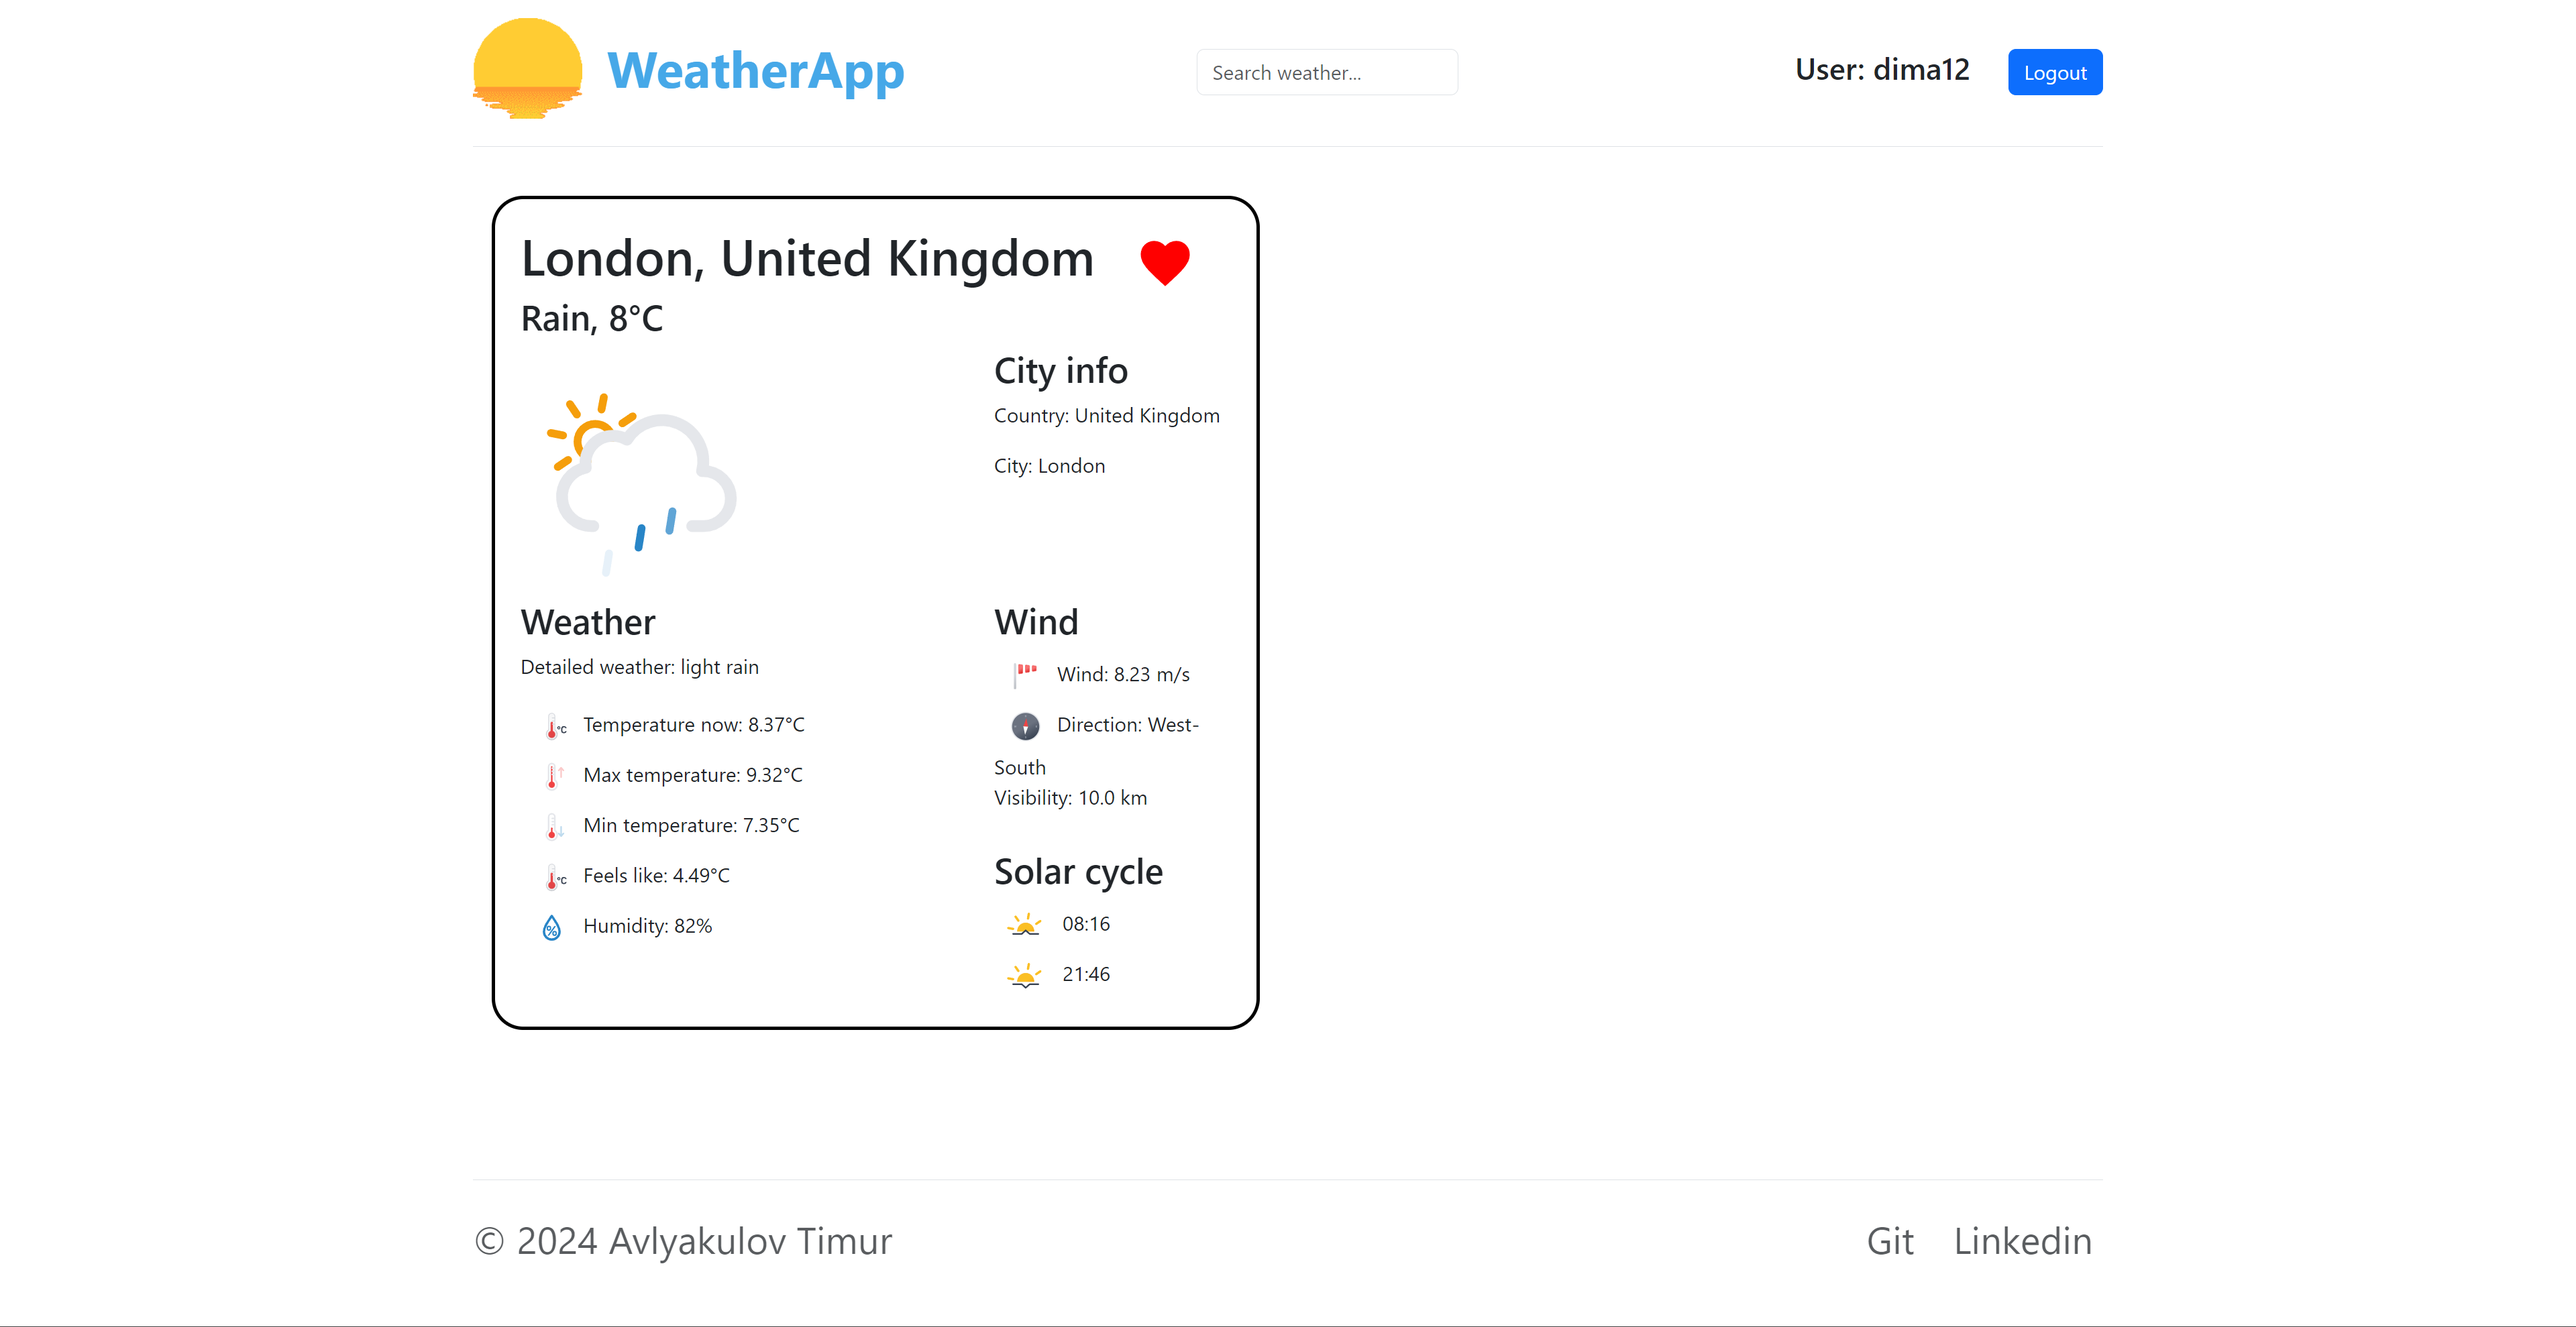
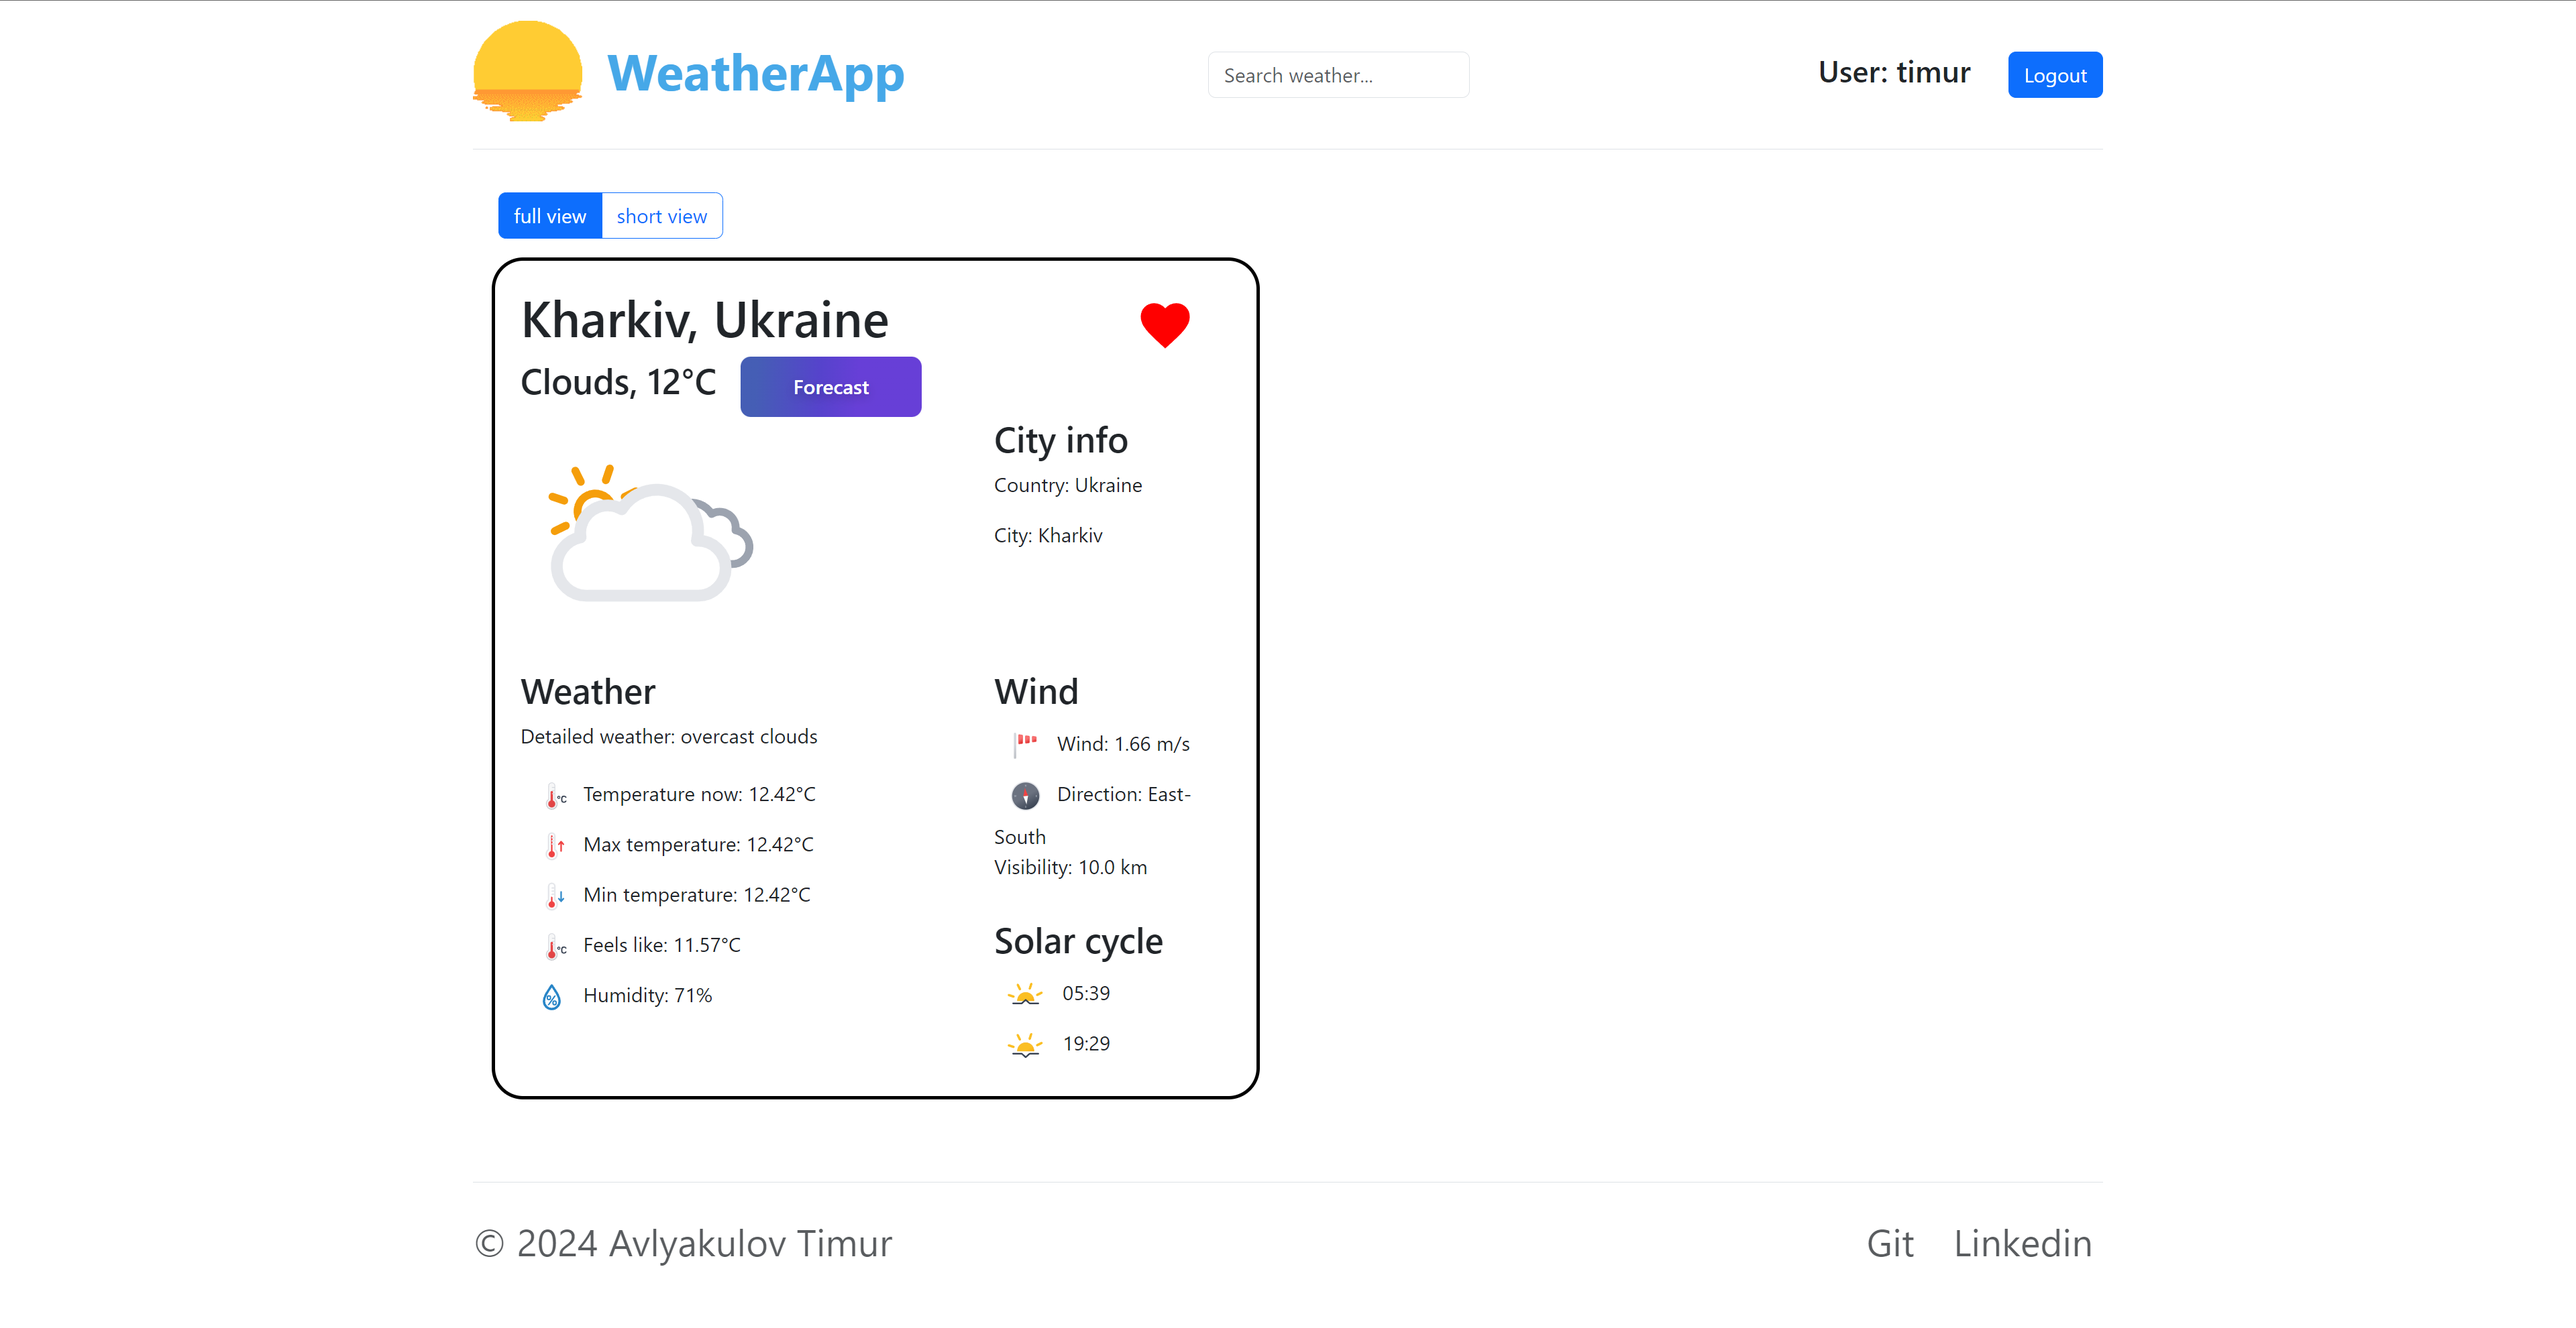
fix bug with registration user

diff --git a/src/test/java/avlyakulov/timur/service/UserServiceTest.java b/src/test/java/avlyakulov/timur/service/UserServiceTest.java
@@ -99,42 +99,42 @@ public class UserServiceTest {
 
         @Test
         void isUserLoginAndPasswordAreValid_returnTrue_userHasValidLoginAndPassword() {
-            boolean userLoginAndPasswordAreValid = userService.isUserLoginAndPasswordAreValid(context, userLoginValid);
+            boolean userLoginAndPasswordAreValid = userService.isUserLoginAndPasswordAreValid(userLoginValid, context);
 
             assertThat(userLoginAndPasswordAreValid).isTrue();
         }
 
         @Test
         void isUserLoginAndPasswordAreValid_returnFalse_userHasInvalidLogin() {
-            boolean userLoginAndPasswordAreValid = userService.isUserLoginAndPasswordAreValid(context, userLoginInvalid);
+            boolean userLoginAndPasswordAreValid = userService.isUserLoginAndPasswordAreValid( userLoginInvalid, context);
 
             assertThat(userLoginAndPasswordAreValid).isFalse();
         }
 
         @Test
         void isUserLoginAndPasswordAreValid_returnTrue_userHasValidEmailLogin() {
-            boolean userLoginAndPasswordAreValid = userService.isUserLoginAndPasswordAreValid(context, userEmailLoginValid);
+            boolean userLoginAndPasswordAreValid = userService.isUserLoginAndPasswordAreValid( userEmailLoginValid, context);
 
             assertThat(userLoginAndPasswordAreValid).isTrue();
         }
 
         @Test
         void isUserLoginAndPasswordAreValid_returnFalse_userHasInvalidEmailLogin() {
-            boolean userLoginAndPasswordAreValid = userService.isUserLoginAndPasswordAreValid(context, userEmailLoginInvalid);
+            boolean userLoginAndPasswordAreValid = userService.isUserLoginAndPasswordAreValid( userEmailLoginInvalid, context);
 
             assertThat(userLoginAndPasswordAreValid).isFalse();
         }
 
         @Test
         void isUserLoginAndPasswordAreValid_returnFalse_userHasWeakPassword() {
-            boolean userLoginAndPasswordAreValid = userService.isUserLoginAndPasswordAreValid(context, userPasswordInvalid);
+            boolean userLoginAndPasswordAreValid = userService.isUserLoginAndPasswordAreValid( userPasswordInvalid, context);
 
             assertThat(userLoginAndPasswordAreValid).isFalse();
         }
 
         @Test
         void isUserLoginAndPasswordAreValid_returnFalse_userHasInvalidConfirmPassword() {
-            boolean userLoginAndPasswordAreValid = userService.isUserLoginAndPasswordAreValid(context, userConfirmPasswordInvalid);
+            boolean userLoginAndPasswordAreValid = userService.isUserLoginAndPasswordAreValid( userConfirmPasswordInvalid, context);
 
             assertThat(userLoginAndPasswordAreValid).isFalse();
         }

diff --git a/src/main/java/avlyakulov/timur/servlet/auth/RegisterController.java b/src/main/java/avlyakulov/timur/servlet/auth/RegisterController.java
@@ -61,18 +61,21 @@ public class RegisterController extends HttpServlet {
             return;
         }
         UserRegistrationDto userRegistrationDto = new UserRegistrationDto(login, password, confirmPassword);
-        boolean isUserLoginAndPasswordAreValid = userService.isUserLoginAndPasswordAreValid(context, userRegistrationDto);
+        boolean isUserLoginAndPasswordAreValid = userService.isUserLoginAndPasswordAreValid(userRegistrationDto, context);
         if (isUserLoginAndPasswordAreValid) {
             User user = new User(userRegistrationDto.getLogin(), userRegistrationDto.getPassword());
             try {
                 userService.createUser(user);
+                context.setVariable("success_registration", true);
+                ThymeleafUtilRespondHtmlView.respondHtmlPage(htmlPageRegister, context, resp);
+                return;
             } catch (ModelAlreadyExistsException e) {
                 context.setVariable("error_field", e.getMessage());
                 ThymeleafUtilRespondHtmlView.respondHtmlPage(htmlPageRegister, context, resp);
                 return;
             }
         }
-        context.setVariable("success_registration", true);
+        context.setVariable("success_registration", false);
         ThymeleafUtilRespondHtmlView.respondHtmlPage(htmlPageRegister, context, resp);
     }
 }

diff --git a/src/main/java/avlyakulov/timur/service/UserService.java b/src/main/java/avlyakulov/timur/service/UserService.java
@@ -1,14 +1,11 @@
 package avlyakulov.timur.service;
 
-import avlyakulov.timur.custom_exception.ModelAlreadyExistsException;
 import avlyakulov.timur.custom_exception.UserCredentialsException;
 import avlyakulov.timur.dao.UserDao;
 import avlyakulov.timur.dto.UserRegistrationDto;
 import avlyakulov.timur.model.User;
 import avlyakulov.timur.util.BCryptPassword;
-import avlyakulov.timur.util.ContextUtil;
 import avlyakulov.timur.util.authentication.LoginRegistrationValidation;
-import avlyakulov.timur.util.thymeleaf.ThymeleafUtilRespondHtmlView;
 import lombok.extern.slf4j.Slf4j;
 import org.thymeleaf.context.Context;
 
@@ -39,9 +36,8 @@ public class UserService extends LoginRegistrationValidation implements BCryptPa
         return user;
     }
 
-    public boolean isUserLoginAndPasswordAreValid(Context context, UserRegistrationDto userDto) {
+    public boolean isUserLoginAndPasswordAreValid(UserRegistrationDto userDto, Context context) {
         if (isUserLoginValid(userDto.getLogin(), context) && isPasswordTheSameAndStrong(userDto.getPassword(), userDto.getConfirmPassword(), context)) {
-            context.setVariable("success_registration", true);
             return true;
         }
         return false;

diff --git a/src/main/java/avlyakulov/timur/listener/SessionSchedulerContextListener.java b/src/main/java/avlyakulov/timur/listener/SessionSchedulerContextListener.java
@@ -14,6 +14,10 @@ import java.util.concurrent.TimeUnit;
 public class SessionSchedulerContextListener implements ServletContextListener {
     private ScheduledExecutorService scheduler;
 
+    private final int intervalMinutes = 10;
+
+    private final int initialDelay = 2;
+
     @Override
     public void contextInitialized(ServletContextEvent sce) {
         try {
@@ -21,9 +25,7 @@ public class SessionSchedulerContextListener implements ServletContextListener {
 
             Runnable task = new SessionScheduler();
 
-            int initialDelayMinutes = 5;
-            int intervalMinutes = 15;
-            scheduler.scheduleAtFixedRate(task, initialDelayMinutes, intervalMinutes, TimeUnit.MINUTES);
+            scheduler.scheduleAtFixedRate(task, initialDelay, intervalMinutes, TimeUnit.MINUTES);
         } catch (Exception e) {
             e.printStackTrace();
         }

diff --git a/src/main/java/avlyakulov/timur/util/authentication/LoginRegistrationValidation.java b/src/main/java/avlyakulov/timur/util/authentication/LoginRegistrationValidation.java
@@ -55,10 +55,10 @@ public class LoginRegistrationValidation {
 
 
     private boolean isLoginValid(String login, Context context) {
-        if (!login.contains(" ") && (login.length() >= 2 && login.length() <= 10)) {
+        if (!login.contains(" ") && (login.length() >= 2 && login.length() <= 16)) {
             return true;
         } else {
-            setErrorToContext(context, "Your login can't contain space. Your length has to be from 2 to 10 symbols.");
+            setErrorToContext(context, "Your login can't contain space. Your length has to be from 2 to 16 symbols.");
             return false;
         }
     }

diff --git a/README.md b/README.md
@@ -3,7 +3,7 @@
 ## Description
 
 `Weather App` - It is MVC Java Servlet App with Unit and Integration tests for testing functionality.
-It has a view with thymeleaf pages you can check weather any city and and create account for saving locations in DB.
+It has a view with thymeleaf pages you can check weather any city and create account for saving locations in DB.
 
 Project from this [course](https://zhukovsd.github.io/java-backend-learning-course/)
 
@@ -14,7 +14,10 @@ Project from this [course](https://zhukovsd.github.io/java-backend-learning-cour
 * Session Management
 * Docker
 * Docker compose
+* CI/CD 
+* GitHub Actions
 * Postgres, H2
+* Liquibase
 * Slf4j
 * Integration testing, JUnit 5, Mockito
 * Thymeleaf, HTML, CSS, JS
@@ -44,6 +47,10 @@ Project from this [course](https://zhukovsd.github.io/java-backend-learning-cour
 
 <img src="img/git/success_registration.png">
 
-### Search weather
+### Search weather full view
 
 <img src="img/git/search.png">
+
+### Search weather short view
+
+<img src="img/git/search_short_view.png">
